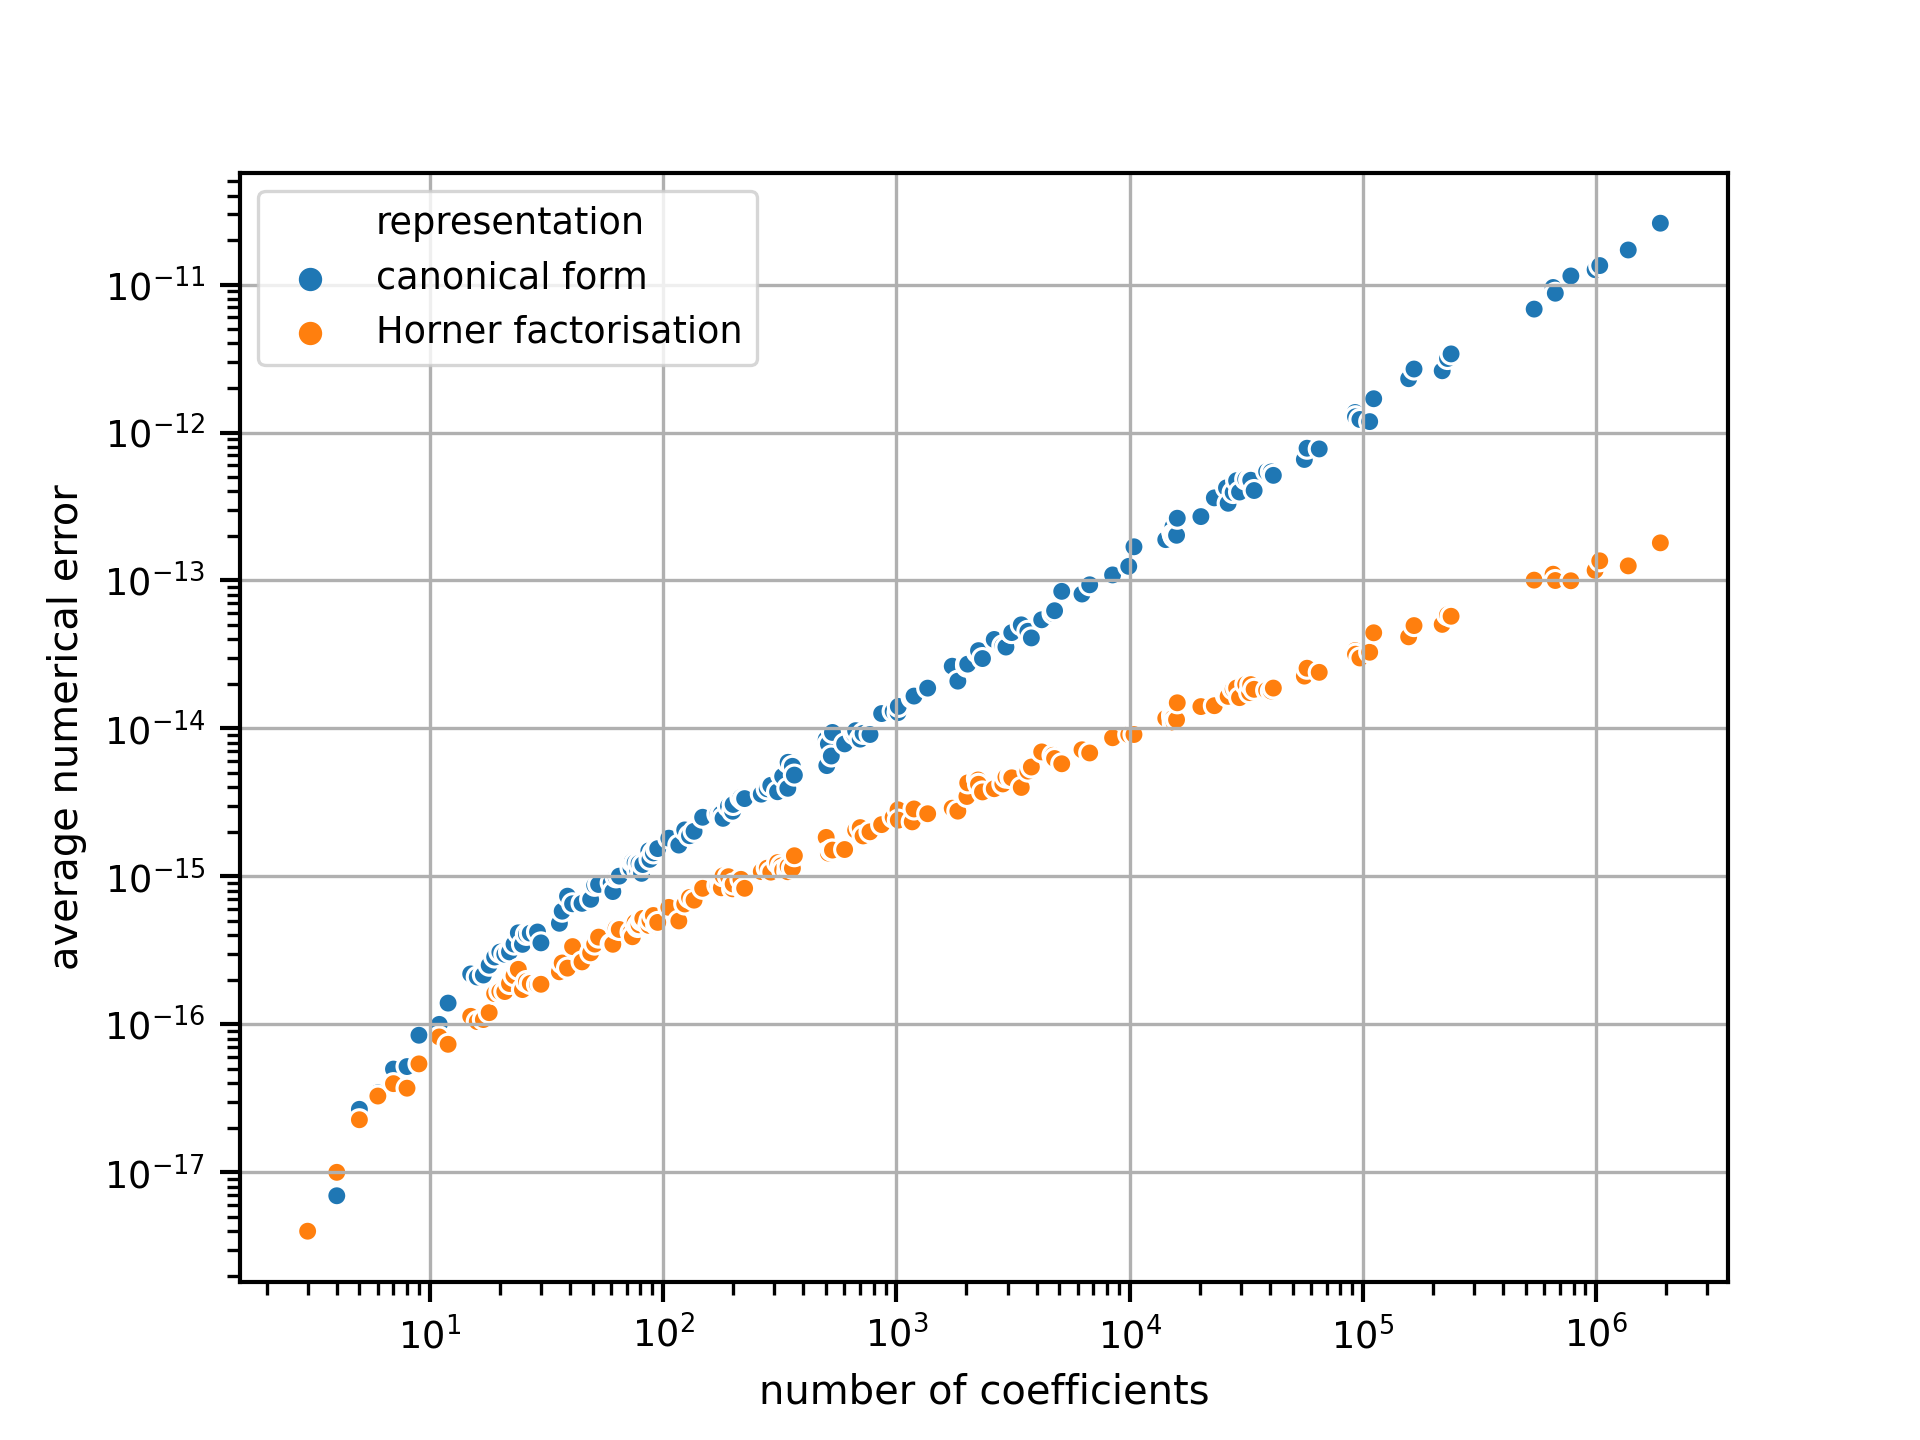
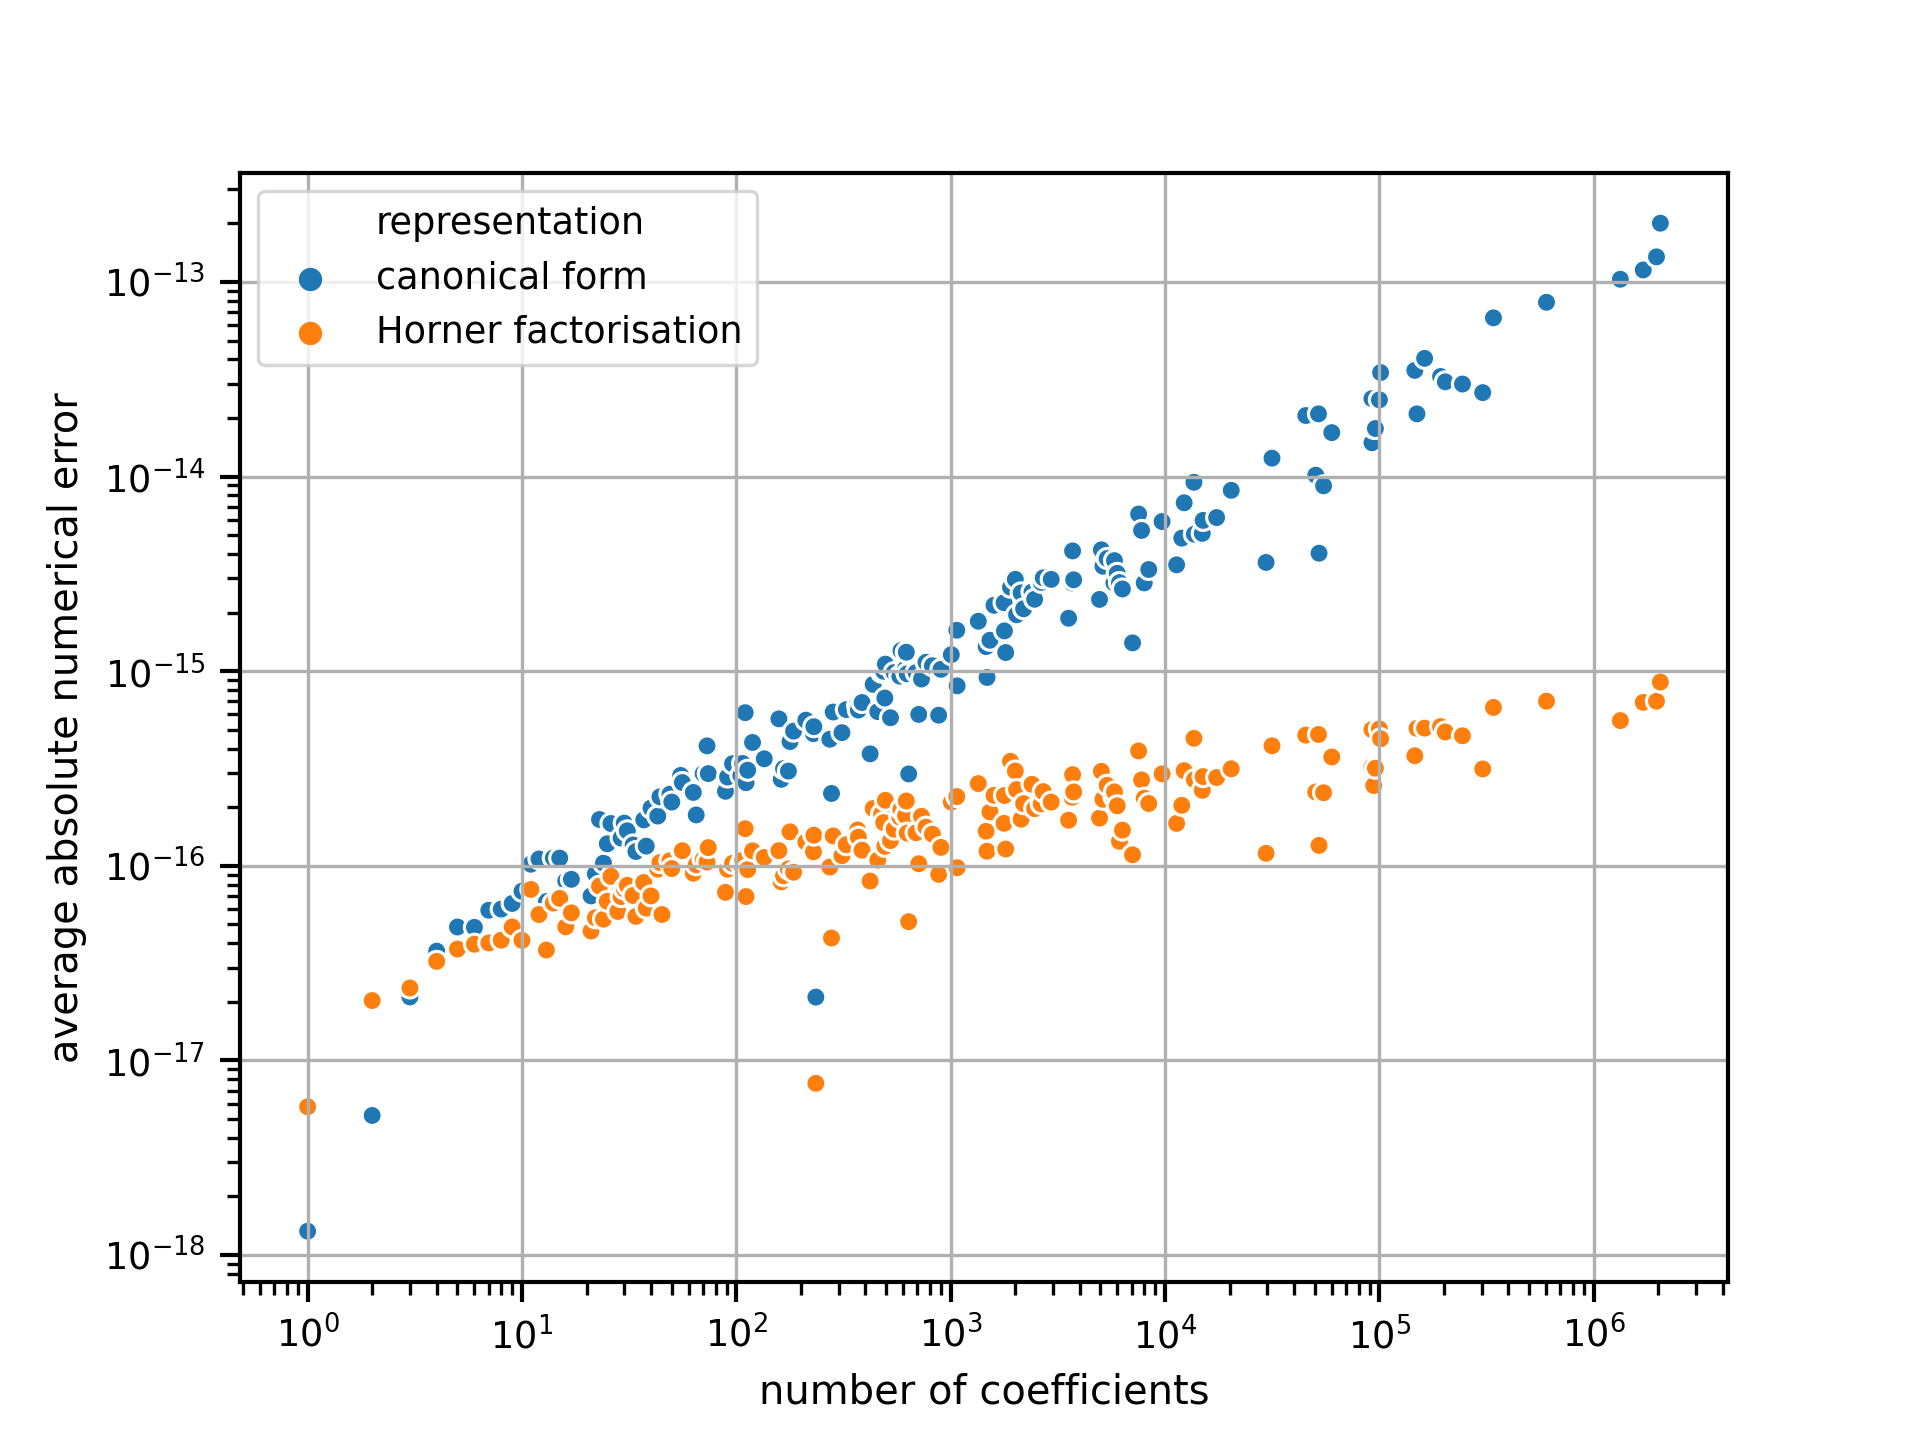
improve quality of writing 2
address issues mentioned by the reviewers in #17
numerical error evaluation on a random point
ground truth generated with 128 precision
update plots
update benchmark description in the paper and in the documentation
mention errors being absolute

diff --git a/tests/numerical_tests.py b/tests/numerical_tests.py
@@ -9,8 +9,8 @@ from multivar_horner import HornerMultivarPolynomial, MultivarPolynomial
 from multivar_horner.global_settings import FLOAT_DTYPE
 from tests.test_helpers import rnd_settings_list
 from tests.test_settings import (
-    DEGREE_RANGE, DIM_RANGE, MAX_COEFF_MAGNITUDE, MAX_NUMERICAL_ERROR,
-    NR_COEFF_CHANGES, NR_TEST_POLYNOMIALS, TEST_RESULTS_PICKLE,
+    DEGREE_RANGE, DIM_RANGE, DTYPE_HIGH_PREC, MAX_COEFF_MAGNITUDE,
+    MAX_NUMERICAL_ERROR, NR_COEFF_CHANGES, NR_TEST_POLYNOMIALS, TEST_RESULTS_PICKLE,
 )
 
 
@@ -31,8 +31,16 @@ def evaluate_numerical_error(dim, max_degree):
         nr_monomials = exponents.shape[0]
         # find factorisation (expensive)
         poly_horner = HornerMultivarPolynomial(coefficients, exponents, validate_input=True)
+        poly = MultivarPolynomial(coefficients, exponents)
+        coefficients = coefficients.astype(DTYPE_HIGH_PREC)
+        poly_high_prec = MultivarPolynomial(coefficients, exponents, validate_input=False)
 
         for coeff_ctr in range(NR_COEFF_CHANGES):
+
+            # evaluation @ uniformly random point
+            x = ((np.random.rand(dim) - 0.5) * (2 * MAX_COEFF_MAGNITUDE))
+            x = x.astype(FLOAT_DTYPE)
+
             # simply change coefficients of the found factorisation (cheap)
             coefficients = ((np.random.rand(nr_monomials, 1) - 0.5) * (2 * MAX_COEFF_MAGNITUDE))
             coefficients = coefficients.astype(FLOAT_DTYPE)
@@ -41,7 +49,7 @@ def evaluate_numerical_error(dim, max_degree):
             poly_horner.change_coefficients(coefficients, validate_input=True, in_place=True)
             p_x_horner = poly_horner.eval(x)
 
-            poly = MultivarPolynomial(coefficients, exponents)
+            poly.change_coefficients(coefficients, validate_input=True, in_place=True)
             p_x = poly.eval(x)
 
             # in order to compare to a numerically accurate ground truth
@@ -51,8 +59,16 @@ def evaluate_numerical_error(dim, max_degree):
             # one must NOT create random 128-bit coefficients as ground truth
             # this would cause additional numerical error, because the algorithms have only 64-bit accuracy!
             # -> create 64-bit coefficients, then convert them to 128-bit!
-            coefficients = np.asarray(coefficients, dtype=np.float128)
-            p_x_expected = np.sum(coefficients)  # ground truth
+            coefficients = coefficients.astype(DTYPE_HIGH_PREC)
+            # p_x_expected = np.sum(coefficients)  # ground truth
+
+            # ground truth at random point:
+            # NOTE: need to deactivate jit compilation of naive approach
+            # use higher prevision
+            # suppress input validation
+            poly_high_prec.change_coefficients(coefficients, validate_input=False, in_place=True)
+            x = x.astype(DTYPE_HIGH_PREC)
+            p_x_expected = poly_high_prec.eval(x)
 
             result = (poly, poly_horner, p_x_expected, p_x, p_x_horner)
             results.append(result)
@@ -60,7 +76,7 @@ def evaluate_numerical_error(dim, max_degree):
             max_error = max(max_error, abs_numerical_error)
             sys.stdout.write(f'(poly #{poly_ctr + 1} coeff #{coeff_ctr + 1}, {(ctr_total + 1) / ctr_total_max:.1%})'
                              f' max numerical error: {max_error:.2e}\r')
-            sys.stdout.flush()
+            # sys.stdout.flush()
             if max_error > MAX_NUMERICAL_ERROR:
                 # # DEBUG:
                 # with open('coefficients.pickle', 'wb') as f:

diff --git a/tests/plotting.py b/tests/plotting.py
@@ -505,7 +505,7 @@ def plot_num_error_growth_comparison(results):
 
     attr_name_representation = 'representation'
     attr_name_num_coeff = 'number of coefficients'
-    attr_name_numerical_err = 'average numerical error'
+    attr_name_numerical_err = 'average absolute numerical error'
     repr_name_horner = 'Horner factorisation'
     repr_name_naive = 'canonical form'
 
@@ -646,8 +646,8 @@ if __name__ == '__main__':
     # TODO plot with seaborn in the same fashion as numerical test
     # TODO compare & plot the performance wrt. the "density" of the polynomials. sparse <-> fully occupied
     # TODO make num tested polynomials dependent on parameters (size, time) (faster runs are more noisy)
-    run_speed_benchmark()  # generate speed test data
+    # run_speed_benchmark()  # generate speed test data
     # TODO include plots in documentation
-    plot_speed_results()  # create plots with speed test data
+    # plot_speed_results()  # create plots with speed test data
 
     plot_numerical_error()  # create plots with numerical test data

diff --git a/tests/test_settings.py b/tests/test_settings.py
@@ -14,12 +14,13 @@ PLOTTING_DIR = abspath(join(__file__, pardir, 'plots'))
 
 ALPHA = 0.8
 
+
 NR_TEST_POLYNOMIALS = 5  # repetitions
 MAX_COEFF_MAGNITUDE = 1e0
 MAX_INP_MAGNITUDE = MAX_COEFF_MAGNITUDE  # max magnitude of evaluation points x
-MAX_DIMENSION = 3
+MAX_DIMENSION = 7
 DIM_RANGE = list(range(1, MAX_DIMENSION + 1))
-MAX_DEGREE = 4
+MAX_DEGREE = 7
 DEGREE_RANGE = list(range(1, MAX_DEGREE + 1))
 
 # speed tests
@@ -29,6 +30,7 @@ SPEED_RUN_PICKLE = 'speed_results.pickle'
 # numercial tests
 NR_COEFF_CHANGES = 100  # controlling the noise for averaging the numerical error of a single polynomial run
 TEST_RESULTS_PICKLE = 'test_results.pickle'
+DTYPE_HIGH_PREC = np.float128
 
 # max allowed numerical error
 # n orders of magnitudes less than the coefficients

diff --git a/multivar_horner/helpers_fcts_numba.py b/multivar_horner/helpers_fcts_numba.py
@@ -12,7 +12,7 @@ from numba import b1, f8, jit, u4
 
 
 # TODO define and import dtypes globally
-@jit(f8(f8[:], f8[:], u4[:, :]), nopython=True, cache=True)
+# @jit(f8(f8[:], f8[:], u4[:, :]), nopython=True, cache=True)
 def naive_eval(x, coefficients, exponents):
     nr_coeffs = len(coefficients)
     # nr_monomials,nr_dims = exponents.shape

diff --git a/paper/paper.md b/paper/paper.md
@@ -87,7 +87,7 @@ p_x = p.eval(x, rectify_input=True) # -29.0
 ````
 
 The factorisation computed by `multivar_horner` is $p(x) =  x_1 (x_1 (x_1 (1 x_2) + 2 x_3) + 3 x_2 x_3) + 5$ and requires 10 operations for every polynomial evaluation.
-It should be noted that the implemented factorisation procedure is coefficient agnostic and hence does not for example optimise multiplications with $1$. 
+It should be noted that the implemented factorisation procedure is coefficient agnostic and hence does not for example optimise multiplications with $1$.
 This design choice has been made in order to have the ability to change the coefficients of a computed polynomial representation a posteriori.
 
 With the default settings a Horner factorisation is being computed by recursively factorising with respect to the factor most commonly used in all monomials.
@@ -129,19 +129,16 @@ For a fixed *maximal* degree $n$ in $m$ dimensions there are $(n+1)^m$ possible 
 Each of these monomials is being activated with the chosen probability.
 
 For each maximal degree up to 7 and until dimensionality 7, 5 polynomials were drawn randomly.
-In order to compute the numerical error, each polynomial has been evaluated at the point of all ones.
-The true result in this case should always be the sum of all coefficients.
-Any deviation of the evaluation value from the sum of coefficients hence is numerical error.
-In order to receive more representative results, the obtained numerical error is being averaged over 100 tries with uniformly random coefficients in the range $[-1; 1]$.
-The polynomial evaluation uses the default 64-bit floating point numbers, whereas the ground truth sum of 64-bit coefficients has been computed with 128-bit accuracy in order to avoid numerical errors in the ground truth value.
-
+In order to compute the numerical error, each polynomial has been evaluated at a point chosen uniformly random from $[-1; 1]^m$ with the different methods.
+The polynomial evaluation algorithms use 64-bit floating point numbers, whereas the ground truth has been computed with 128-bit accuracy in order to avoid numerical errors in the ground truth value.
+To receive more representative results, the obtained numerical error is being averaged over 100 tries with uniformly random coefficients each in the range $[-1; 1]$,
+All errors are displayed as (averaged) absolute values.
 
 ![numerical error of evaluating randomly generated polynomials in canonical form relative to the Horner factorisation.\label{fig:num_err_heatmap}](../docs/_static/num_err_heatmap.png)
 
 Note that even though the original monomials are not actually present in a Horner factorisation, the amount of coefficients however is identical to the amount of coefficients of its canonical form.
 With increasing size in terms of the amount of included coefficients the numerical error of both the canonical form and the Horner factorisation found by `multivar_horner` grow exponentially (cf. \autoref{fig:num_err_growth}).
 However, in comparison to the canonical form, the Horner factorisation is more numerically stable as it has also been visualised in \autoref{fig:num_err_heatmap}.
-For theoretical results of 
 The numerical stability of Horner factorisations has theoretically been shown in [@greedyHorner; @pena2000multivariate; @pena2000multivariate2].
 
 Even though the amount of operations required for evaluating the polynomials grow exponentially with their size irrespective of the representation, the rate of growth is lower for the Horner factorisation (cf. \autoref{fig:num_ops_growth}).

diff --git a/docs/2_about.rst b/docs/2_about.rst
@@ -111,9 +111,10 @@ As a result the Horner factorisations are computationally easier to evaluate.
 Numerical error
 ^^^^^^^^^^^^^^^
 
-In order to compute the numerical error, each polynomial has been evaluated at the point of all ones.
-The true result in this case should always be the sum of all coefficients.
-The resulting numerical error is being averaged over 100 tries with uniformly random coefficients in the range [-1; 1].
+In order to compute the numerical error, each polynomial has been evaluated at a point chosen uniformly random from $[-1; 1]^m$ with the different methods.
+The polynomial evaluation algorithms use 64-bit floating point numbers, whereas the ground truth has been computed with 128-bit accuracy in order to avoid numerical errors in the ground truth value.
+To receive more representative results, the obtained numerical error is being averaged over 100 tries with uniformly random coefficients each in the range $[-1; 1]$,
+All errors are displayed as (averaged) absolute values.
 
 
 With increasing size in terms of the amount of included coefficients the numerical error of both the canonical form and the Horner factorisation found by ``multivar_horner`` grow exponentially.
